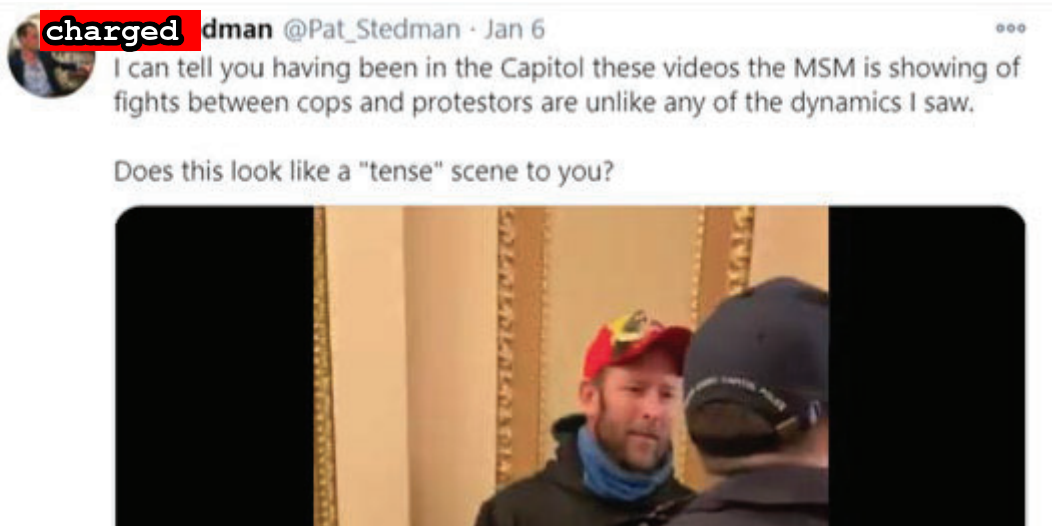
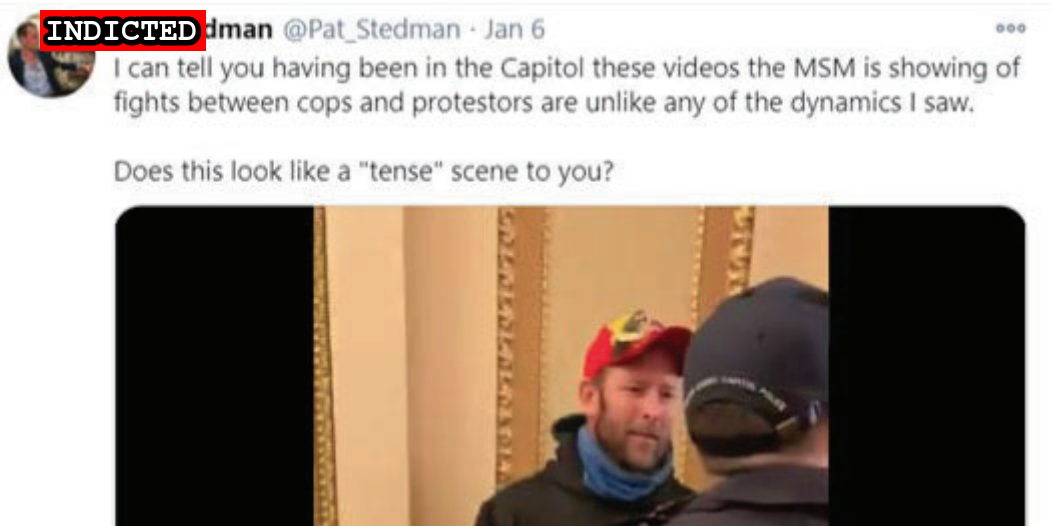
New indictments

Changed region(s): [[0.0304, 0.0304, 0.2129, 0.0913]]

diff --git a/docs/_suspects/patrick-stedman.md b/docs/_suspects/patrick-stedman.md
@@ -3,13 +3,14 @@ name: Patrick Stedman
 lastName: Stedman
 aka:
 residence: New Jersey
-status: Charged
+status: Indicted
 date: 2021-01-21
 charged: 2021-01-21
-indicted:
-convicted: 
-sentenced: 
-dismissed: 
+indicted: 2021-06-02
+convicted:
+sentenced:
+dismissed:
+deceased:
 age: 32
 occupation: Dating + Relationship Strategist
 affiliations:
@@ -21,20 +22,22 @@ courtroom:
 courthouse:
 raid:
 perpwalk:
-quote: "I was pretty much in the first wave, and we broke down the doors and climbed up the back part of the Capitol building and got all the way into the chambers"
+quote: 'I was pretty much in the first wave, and we broke down the doors and climbed up the back part of the Capitol building and got all the way into the chambers'
 title: Pat Stedman charged on January 21, 2021
 description: Click for latest case details. Suspects innocent until proven guilty.
 author: seditiontrack
 layout: suspect
 published: true
 charges:
- - name: Unlawful entry on restricted building or grounds
-   code: 18 USC 1752
-   link: https://www.law.cornell.edu/uscode/text/18/1752
- - name: Violent entry or disorderly conduct on Capitol grounds
-   code: 40 USC 5104
-   link: https://www.law.cornell.edu/uscode/text/40/5104
+  - name: Unlawful entry on restricted building or grounds
+    code: 18 USC 1752
+    link: https://www.law.cornell.edu/uscode/text/18/1752
+  - name: Violent entry or disorderly conduct on Capitol grounds
+    code: 40 USC 5104
+    link: https://www.law.cornell.edu/uscode/text/40/5104
 ---
+
 - [News Report](https://www.nj.com/news/2021/01/nj-man-charged-with-taking-part-in-attack-at-us-capitol-posted-videos-from-inside-feds-say.html)
 - [Statement of Facts](https://www.justice.gov/file/1357721/download)
 - [Complaint](https://www.justice.gov/opa/page/file/1357726/download)
+- [Indictment](https://www.justice.gov/usao-dc/case-multi-defendant/file/1413641/download)

diff --git a/docs/_suspects/audrey-southard-rumsey.md b/docs/_suspects/audrey-southard-rumsey.md
@@ -3,13 +3,14 @@ name: Audrey Southard Rumsey
 lastName: Southard Rumsey
 aka:
 residence: Florida
-status: Charged
+status: Indicted
 date: 2021-06-01
 charged: 2021-06-01
-indicted:
-convicted: 
-sentenced: 
-dismissed: 
+indicted: 2021-06-04
+convicted:
+sentenced:
+dismissed:
+deceased:
 age: 52
 occupation: Music teacher
 affiliations:
@@ -29,7 +30,9 @@ layout: suspect
 published: true
 charges:
 ---
+
 - [News Report](https://lawandcrime.com/u-s-capitol-siege/florida-woman-assaulted-u-s-capitol-sergeant-with-a-flagpole-and-threatened-nancy-pelosi-on-jan-6th-feds-say/)
 - [Statement of Facts](https://www.justice.gov/usao-dc/case-multi-defendant/file/1401016/download)
 - [Courthouse (Video)](https://twitter.com/nycsouthpaw/status/1400276104544493572)
 - [DOJ Press Release](https://www.justice.gov/usao-dc/pr/florida-woman-arrested-assault-law-enforcement-during-jan-6-capitol-breach)
+- [Indictment](https://www.justice.gov/usao-dc/case-multi-defendant/file/1413586/download)

diff --git a/docs/_suspects/grayson-sherrill.md b/docs/_suspects/grayson-sherrill.md
@@ -8,8 +8,9 @@ date: 2021-03-01
 charged: 2021-03-01
 indicted:
 convicted: 
-sentenced: 
+sentenced:
 dismissed: 
+deceased:
 age:
 occupation:
 affiliations:
@@ -32,3 +33,4 @@ charges:
 - [News Report](https://www.msn.com/en-us/news/crime/grayson-sherrill-capitol-rioter-seen-in-keep-america-great-top-gets-turned-in-by-his-own-family/ar-BB1e9zm3)
 - [Complaint](https://extremism.gwu.edu/sites/g/files/zaxdzs2191/f/Grayson%20Sherrill%20Criminal%20Complaint.pdf)
 - [Statement of Facts](https://www.justice.gov/usao-dc/case-multi-defendant/file/1379331/download)
+- [Information](https://www.justice.gov/usao-dc/case-multi-defendant/file/1386306/download)

diff --git a/docs/_suspects/glen-simon.md b/docs/_suspects/glen-simon.md
@@ -8,8 +8,9 @@ date: 2021-04-12
 charged: 2021-04-12
 indicted:
 convicted: 
-sentenced: 
+sentenced:
 dismissed: 
+deceased:
 age: 30
 occupation: Owner, Tree Removal Business
 affiliations:
@@ -32,3 +33,4 @@ charges:
 - [News Report](https://accesswdun.com/article/2021/5/1003147/jefferson-man-charged-in-us-capitol-riot)
 - [Complaint](https://www.justice.gov/usao-dc/case-multi-defendant/file/1391806/download)
 - [Statement of Facts](https://www.justice.gov/usao-dc/case-multi-defendant/file/1391811/download)
+- [Information](https://www.justice.gov/usao-dc/case-multi-defendant/file/1413556/download)

diff --git a/docs/_suspects/dovid-schwartzberg.md b/docs/_suspects/dovid-schwartzberg.md
@@ -8,8 +8,9 @@ date: 2021-04-16
 charged: 2021-04-16
 indicted:
 convicted: 
-sentenced: 
+sentenced:
 dismissed: 
+deceased:
 age: 19
 occupation: Unemployed
 affiliations:
@@ -33,3 +34,4 @@ charges:
 - [Complaint](https://www.justice.gov/usao-dc/case-multi-defendant/file/1388391/download)
 - [Statement of Facts](https://www.justice.gov/usao-dc/case-multi-defendant/file/1388396/download)
 - [Incriminating Evidence (VIDEO)](https://twitter.com/mattmiller757/status/1346944869588230144?s=20)
+- [Information](https://www.justice.gov/usao-dc/case-multi-defendant/file/1413471/download)

diff --git a/docs/_suspects/michael-rusyn.md b/docs/_suspects/michael-rusyn.md
@@ -8,8 +8,9 @@ date: 2021-04-09
 charged: 2021-04-09
 indicted:
 convicted: 
-sentenced: 
+sentenced:
 dismissed: 
+deceased:
 age:
 occupation: Volunteer Firefighter
 affiliations:
@@ -31,3 +32,4 @@ charges:
 ---
 - [News Report](https://www.wnep.com/article/news/local/lackawanna-county/olyphant-man-charged-for-role-in-capitol-riot/523-ca785ac4-a026-400e-9517-7efebb9c0d6a)
 - [Complaint](https://www.justice.gov/usao-dc/case-multi-defendant/file/1385906/download)
+- [Information](https://www.justice.gov/usao-dc/case-multi-defendant/file/1413356/download)
